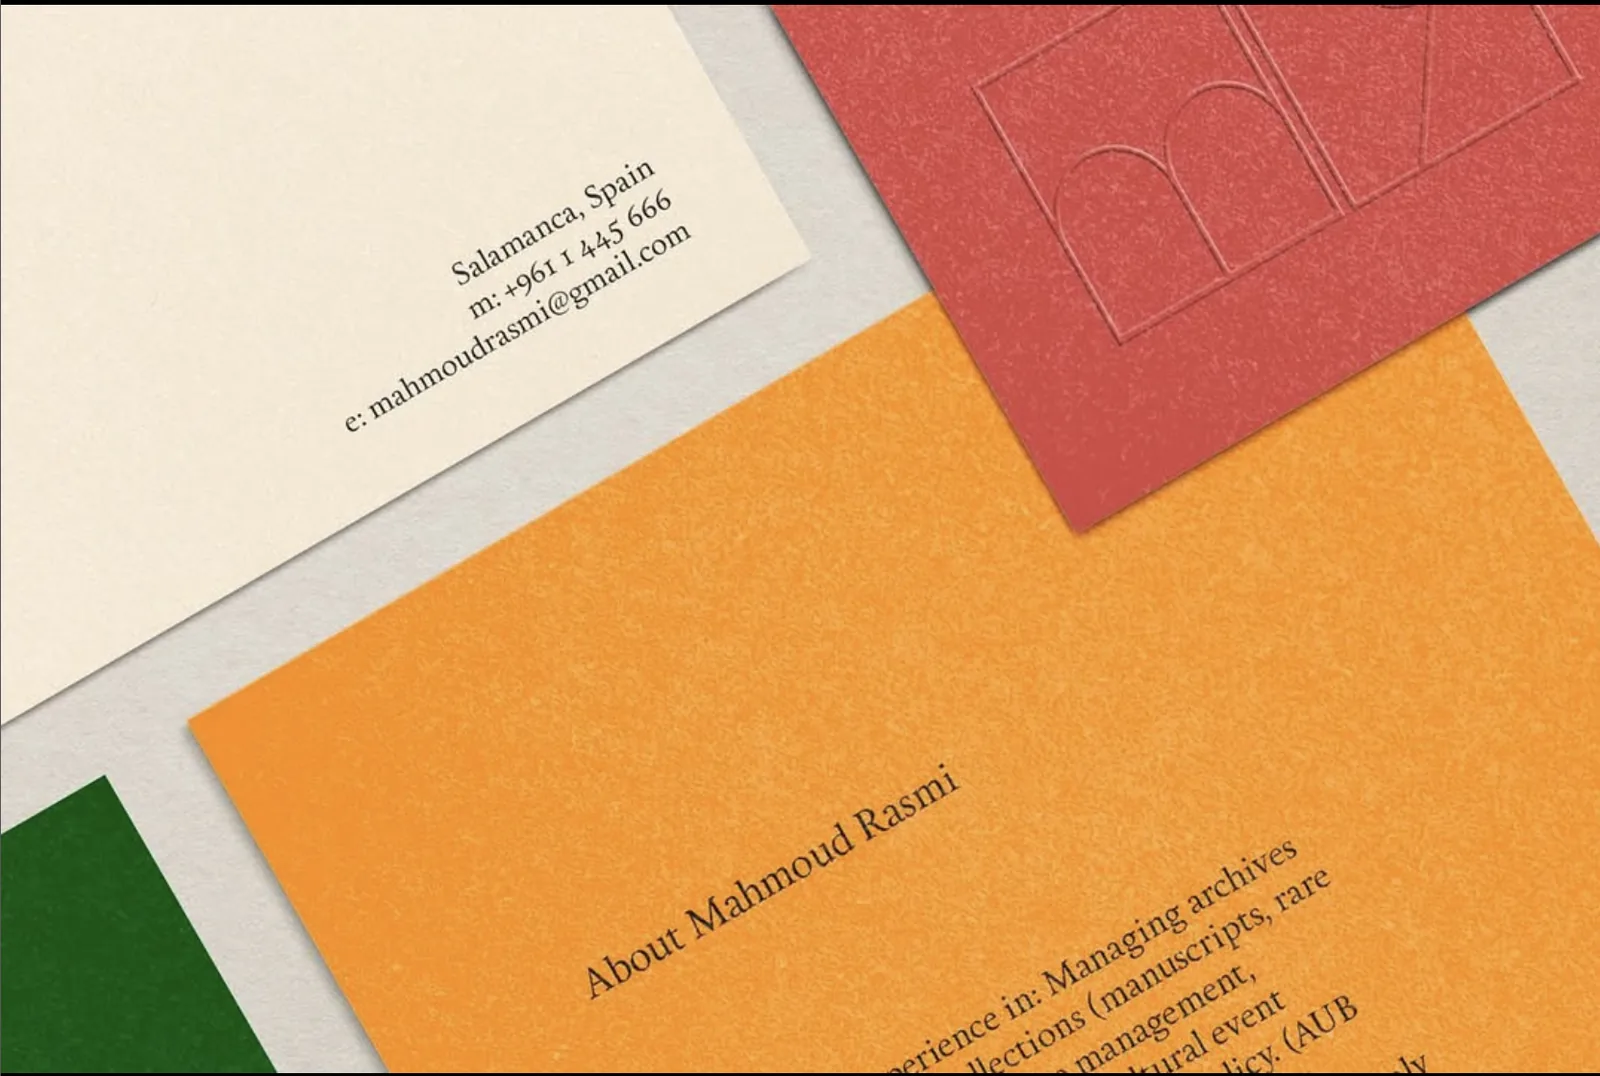
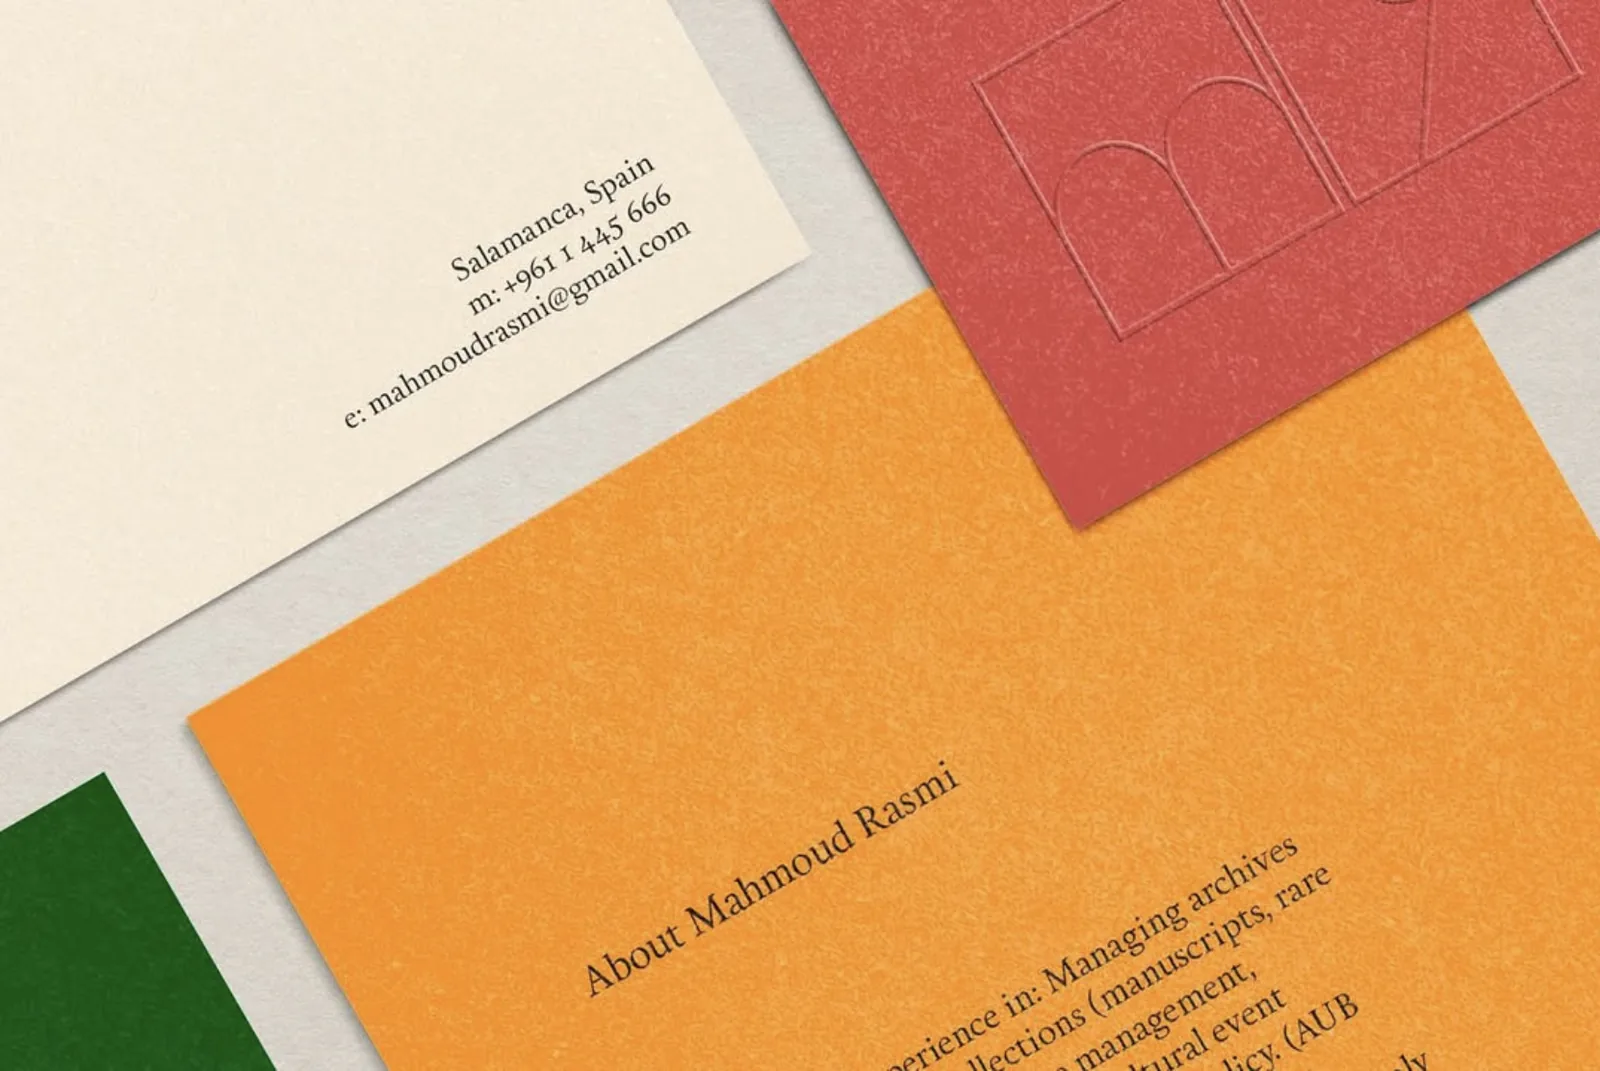
Refresh about page and services content
Updates key brand messaging and visuals across the site: the footer now links to “Culture” instead of “Team,” the services accordion was refactored into structured data with expanded service categories/copy (including grouped growth offerings), and the About page now includes a new team photo while preserving the chain image layout behavior. Also updates related image assets used in About and project visuals.

diff --git a/src/components/services-accordion.tsx b/src/components/services-accordion.tsx
@@ -5,39 +5,108 @@ import {
   AccordionTrigger,
 } from "@/components/ui/accordion";
 
+// One entry per accordion row. A row can carry more than one service family -
+// only Growth does today - and the optional `label` is what keeps them apart
+// under the shared heading.
+type Service = {
+  value: string;
+  title: string;
+  groups: { label?: string; copy: string }[];
+};
+
+const services: Service[] = [
+  {
+    value: "brand-strategy",
+    title: "Brand & Communication Strategy",
+    groups: [
+      {
+        copy: "Positioning, identity direction, messaging, tone of voice, audience definition, content pillars, and campaign concepts.",
+      },
+    ],
+  },
+  {
+    value: "brand-identity",
+    title: "Brand Identity & Design",
+    groups: [
+      {
+        copy: "Logos, typography, color palettes, brand guidelines, and the visual systems that hold an identity together across every touchpoint.",
+      },
+    ],
+  },
+  {
+    value: "website",
+    title: "Website & Digital Presence",
+    groups: [
+      {
+        copy: "CMS support, landing pages, SEO content, website audits, conversion improvements, and Google Business Profile.",
+      },
+    ],
+  },
+  {
+    value: "content-social",
+    title: "Content & Social Media",
+    groups: [
+      {
+        copy: "Social media management, content creation, reels, captions, monthly calendars, and community management.",
+      },
+    ],
+  },
+  {
+    value: "growth-performance",
+    title: "Digital Growth & Performance",
+    groups: [
+      {
+        label: "Paid & organic",
+        copy: "SEO, Google Ads, Meta Ads, paid social, campaign planning, funnel improvement, and conversion tracking.",
+      },
+      {
+        label: "Growth marketing & automation",
+        copy: "Lead generation, ideation, CRM support, cold messaging, email outreach, follow-up flows, and partnership outreach.",
+      },
+    ],
+  },
+  {
+    value: "research-audit",
+    title: "Research, Audit & Project Management",
+    groups: [
+      {
+        copy: "Market research, competitor audits, persona development, performance analysis, and monthly reports.",
+      },
+    ],
+  },
+];
+
 export function ServicesAccordion() {
   return (
     <div className="max-w-3xl">
       <Accordion type="single" collapsible className="w-full space-y-2">
-          <AccordionItem value="brand-strategy" className="border-b border-gray-200">
-            <AccordionTrigger className="text-2xl font-normal py-4 hover:no-underline font-serif">
-              Brand Strategy
+        {services.map((service) => (
+          <AccordionItem
+            key={service.value}
+            value={service.value}
+            className="border-b border-gray-200"
+          >
+            {/* Titles run long enough to wrap in the hero's narrow left column,
+                so they step down a size on phones */}
+            <AccordionTrigger className="text-xl lg:text-2xl font-normal py-4 hover:no-underline font-serif">
+              {service.title}
             </AccordionTrigger>
-            <AccordionContent className="text-base lg:text-lg text-gray-600 leading-relaxed pb-4">
-              Strategic brand positioning, messaging, and planning to help your
-              brand stand out in the market.
+            <AccordionContent className="pb-4 space-y-block">
+              {service.groups.map((group, index) => (
+                <div key={group.label ?? index}>
+                  {group.label && (
+                    <h4 className="text-xs uppercase tracking-widest text-gray-400 mb-2">
+                      {group.label}
+                    </h4>
+                  )}
+                  <p className="text-base lg:text-lg text-gray-600 leading-relaxed">
+                    {group.copy}
+                  </p>
+                </div>
+              ))}
             </AccordionContent>
           </AccordionItem>
-
-          <AccordionItem value="brand-identity" className="border-b border-gray-200">
-            <AccordionTrigger className="text-2xl font-normal py-4 hover:no-underline font-serif">
-              Brand Identity & Design
-            </AccordionTrigger>
-            <AccordionContent className="text-base lg:text-lg text-gray-600 leading-relaxed pb-4">
-              Comprehensive visual identity systems including logos, typography,
-              color palettes, and brand guidelines.
-            </AccordionContent>
-          </AccordionItem>
-
-          <AccordionItem value="digital-experience" className="border-b border-gray-200">
-            <AccordionTrigger className="text-2xl font-normal py-4 hover:no-underline font-serif">
-              Digital & Experience
-            </AccordionTrigger>
-            <AccordionContent className="text-base lg:text-lg text-gray-600 leading-relaxed pb-4">
-              Digital experiences that bring your brand to life through web design,
-              user experience, and interactive solutions.
-            </AccordionContent>
-          </AccordionItem>
+        ))}
       </Accordion>
     </div>
   );

diff --git a/src/pages/about.tsx b/src/pages/about.tsx
@@ -1,5 +1,6 @@
 import { useEffect, useRef, useState } from "react";
 import upperShot from "@/assets/about/upper-shot.webp";
+import teamImage from "@/assets/about/team.webp";
 import chainImage from "@/assets/about/chain.png";
 
 export function AboutPage() {
@@ -92,15 +93,26 @@ export function AboutPage() {
       <section ref={philosophyRef} className="py-section lg:py-section-lg">
         {/* Split Layout: Left (Image) and Right (Text) */}
         <div className="grid grid-cols-1 lg:grid-cols-2 gap-stack lg:gap-4 px-6 lg:px-16 xl:px-80">
-          {/* Left Side - Chain Image at Bottom */}
+          {/* Left Side - Studio Photo on Top, Chain Image at Bottom */}
           <div
-            className={`relative flex items-end justify-start transition-all duration-1000 delay-200 ${
+            className={`flex flex-col gap-stack transition-all duration-1000 delay-200 ${
               isPhilosophyVisible
                 ? "opacity-100 translate-y-0"
                 : "opacity-0 translate-y-12"
             }`}
           >
-            <div className="w-full max-w-[180px] lg:max-w-[280px]">
+            <img
+              src={teamImage}
+              alt="The Brand& team in conversation over coffee"
+              className="w-full h-auto"
+              loading="lazy"
+            />
+
+            {/* mt-auto keeps the chain pinned to the bottom of the column the way
+                it was before the photo moved in above it. The column stretches to
+                the height of the taller text column beside it, so on desktop this
+                is what drops the chain level with the end of the copy. */}
+            <div className="w-full max-w-[180px] lg:max-w-[280px] mt-auto">
               <img
                 src={chainImage}
                 alt="Chain"

diff --git a/src/components/footer.tsx b/src/components/footer.tsx
@@ -71,7 +71,7 @@ export function Footer() {
       {/* Top Section - Large Nav Items */}
       <div className="container mx-auto px-6 py-section lg:py-section-lg">
         <div className="flex flex-col items-center gap-block lg:gap-stack">
-          {/* Projects | Image | Team Row - the type scales down on small screens
+          {/* Projects | Image | Culture Row - the type scales down on small screens
               so the row never runs past the edge of the phone */}
           <div
             ref={projectsRef}
@@ -96,7 +96,7 @@ export function Footer() {
               to="/about"
               className="text-4xl sm:text-5xl md:text-6xl lg:text-7xl xl:text-8xl font-light tracking-tight hover:opacity-70 transition-opacity uppercase"
             >
-              TEAM
+              CULTURE
             </Link>
           </div>
 
